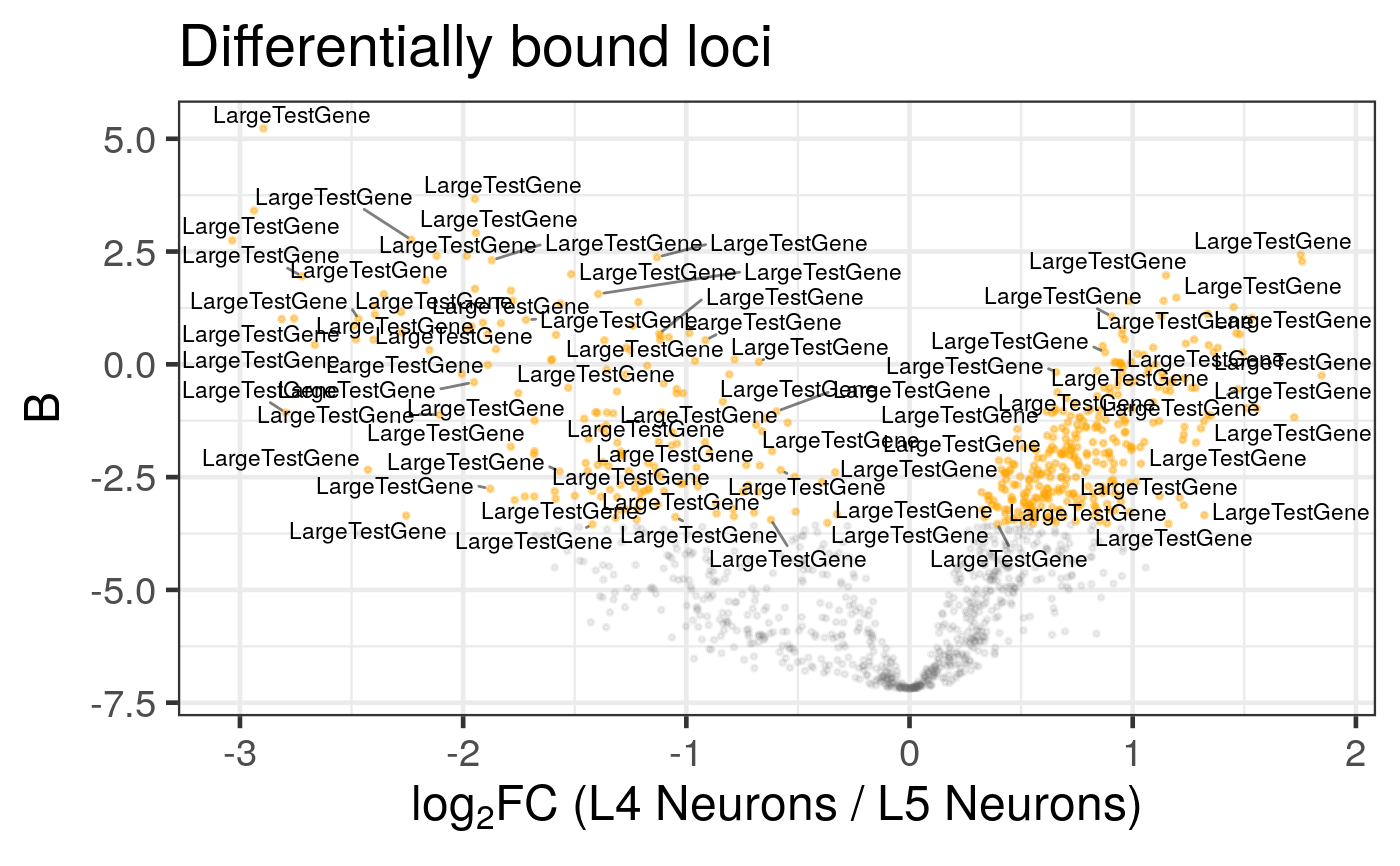
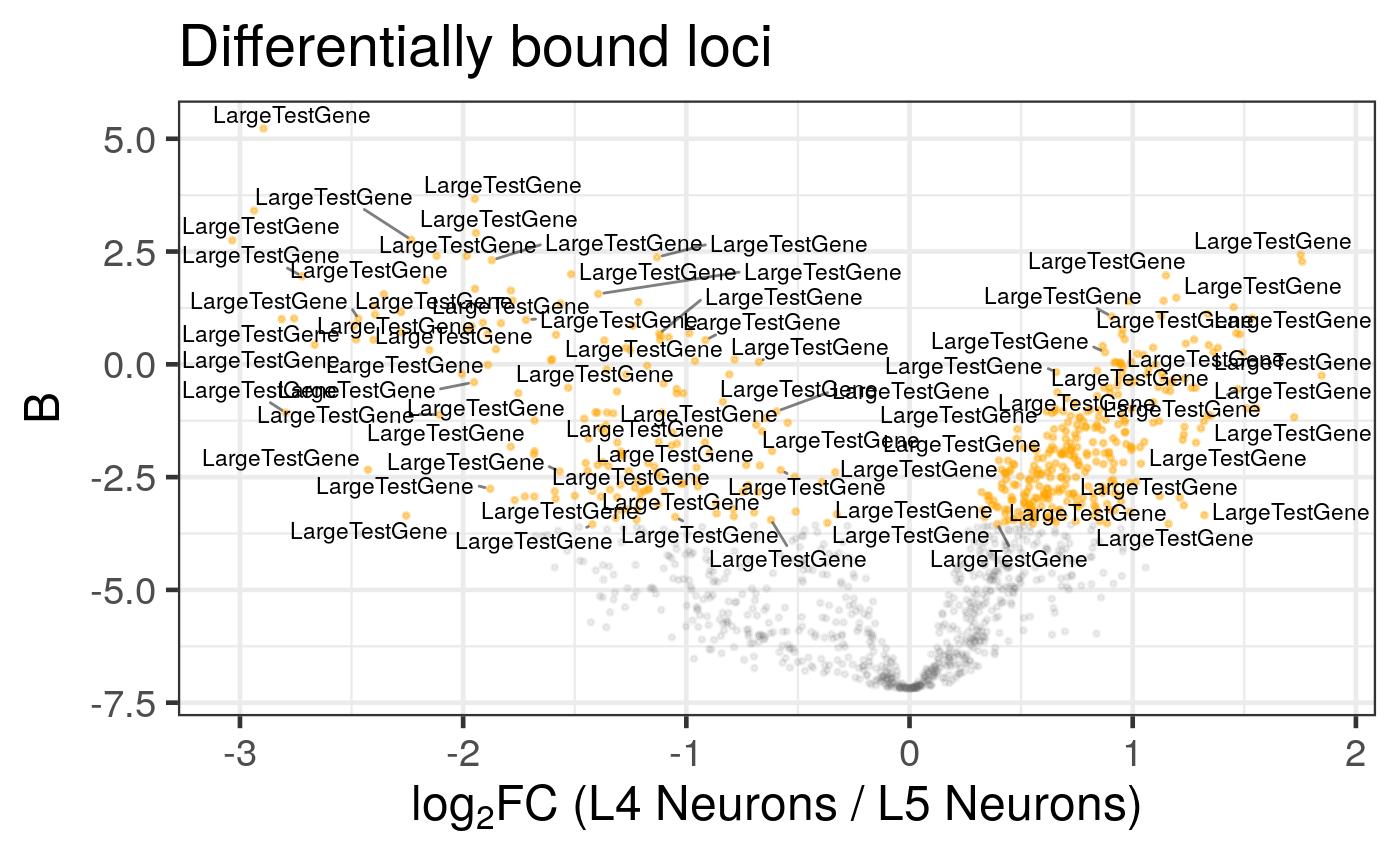
Built site for damidBind@1.1.1:

diff --git a/index.html b/index.html
@@ -57,8 +57,8 @@
   <main id="main" class="col-md-9"><div class="section level1">
 <div class="page-header"><h1 id="introduction">Introduction<a class="anchor" aria-label="anchor" href="#introduction"></a>
 </h1></div>
-<p>DamID is a highly-sensitive means to profile the genome-wide association of proteins with chromatin in living eukaryotic cells, without fixation or the use of antibodies. Cell-type specific techniques such as Targeted DamID to profile protein binding, and CATaDA to profile chromatin accessibility, have made the technique an extremely powerful tool to understand the binding of transcription factors, chromatin proteins, RNA polymerase and chromatin changes during development and disease.</p>
-<p>The <code>damidBind</code> package provides a straight-forward, statistically-robust formal analysis pipeline to analyse and explore differential DamID binding, gene transcription or chromatin accessibility between two conditions. The package imports processed data from DamID-seq experiments, in the form of binding bedgraphs and GFF peak calls. After optionally normalising data, combining peaks across replicates and determining per-replicate peak occupancy, the package links bound loci to nearby genes. It then uses either <code>limma</code> (for conventional log2 ratio DamID binding data) or <code>NOIseq</code> (for counts-based CATaDa chromatin accessibility data) to identify differentially-enriched regions between two conditions.</p>
+<p>DamID is a highly-sensitive means to profile the genome-wide association of proteins with chromatin in living eukaryotic cells, without fixation or the use of antibodies. Cell-type specific techniques such as Targeted DamID to profile protein binding, and CATaDa to profile chromatin accessibility, have made the technique an extremely powerful tool to understand the binding of transcription factors, chromatin proteins, RNA polymerase and chromatin changes during development and disease.</p>
+<p>The <code>damidBind</code> package provides a straight-forward, statistically-robust formal analysis pipeline to analyse and explore differential DamID binding, gene transcription or chromatin accessibility between two conditions. The package imports processed data from DamID-seq experiments, in the form of GenomicRanges objects, or via binding bedGraphs and BED/GFF peak calls. After optionally normalising data, combining peaks across replicates and determining per-replicate peak occupancy, the package links bound loci to nearby genes. It then uses either <code>limma</code> (for conventional log2 ratio DamID binding data) or <code>NOIseq</code> (for counts-based CATaDa chromatin accessibility data) to identify differentially-enriched regions between two conditions.</p>
 <p>The package provides a number of visualisation tools (volcano plots, gene ontology enrichment plots via <code>clusterProfiler</code> and proportional Venn diagrams via <code>BioVenn</code> for downstream data exploration and analysis. An powerful, interactive IGV genome browser interface (powered by <code>Shiny</code> and <code>igvShiny</code>) allows users to rapidly and intuitively assess significant differentially-bound regions in their genomic context.</p>
 <p>Although extensive customisation options are available if required, much of the data handling by <code>damidBind</code> is taken care of automatically, with sensible defaults assumed. To move from loading raw data to visualising differentially-enriched regions on a volcano plot or browsing enriched regions in an interactive IGV window is a simple three command procedure.</p>
 </div>
@@ -70,8 +70,7 @@
 <code class="sourceCode R"><span><span class="kw">if</span> <span class="op">(</span><span class="op">!</span><span class="kw"><a href="https://rdrr.io/r/base/library.html" class="external-link">require</a></span><span class="op">(</span><span class="st"><a href="https://bioconductor.github.io/BiocManager/" class="external-link">"BiocManager"</a></span>, quietly <span class="op">=</span> <span class="cn">TRUE</span><span class="op">)</span><span class="op">)</span></span>
 <span>    <span class="fu"><a href="https://rdrr.io/r/utils/install.packages.html" class="external-link">install.packages</a></span><span class="op">(</span><span class="st">"BiocManager"</span><span class="op">)</span></span>
 <span></span>
-<span><span class="co"># To install from Bioconductor (requires Bioconductor release 3.23):</span></span>
-<span><span class="fu">BiocManager</span><span class="fu">::</span><span class="fu"><a href="https://bioconductor.github.io/BiocManager/reference/install.html" class="external-link">install</a></span><span class="op">(</span>version<span class="op">=</span><span class="st">'devel'</span><span class="op">)</span></span>
+<span><span class="co"># To install the stable release from Bioconductor (requires Bioconductor release 3.23):</span></span>
 <span><span class="fu">BiocManager</span><span class="fu">::</span><span class="fu"><a href="https://bioconductor.github.io/BiocManager/reference/install.html" class="external-link">install</a></span><span class="op">(</span><span class="st">"damidBind"</span><span class="op">)</span></span>
 <span></span>
 <span><span class="co"># ... or to install the latest build from Github </span></span>
@@ -86,19 +85,19 @@
 <div class="section level1">
 <h1 id="quick-start-guide">Quick start guide<a class="anchor" aria-label="anchor" href="#quick-start-guide"></a>
 </h1>
-<p>Using <code>damidBind</code>, in eight easy steps:</p>
+<p>Using <code>damidBind</code>, in nine easy steps:</p>
 <div class="sourceCode" id="cb2"><pre class="downlit sourceCode r">
 <code class="sourceCode R"><span><span class="co"># Load up the data </span></span>
 <span><span class="co"># (use load_data_genes() for RNA Polymerase occupancy data)</span></span>
 <span><span class="va">input</span> <span class="op">&lt;-</span> <span class="fu"><a href="reference/load_data_peaks.html">load_data_peaks</a></span><span class="op">(</span></span>
 <span>    binding_profiles_path <span class="op">=</span> <span class="st">"path/to/binding_profile_bedgraphs"</span>,</span>
 <span>    peaks_path <span class="op">=</span> <span class="st">"path/to/peak_gffs_or_beds"</span></span>
-<span>    <span class="co"># add quantile_norm = TRUE if appropriate</span></span>
+<span>    <span class="co"># add a normalisation step via norm_method if appropriate</span></span>
 <span><span class="op">)</span> </span>
 <span></span>
 <span><span class="co"># Determine differential binding </span></span>
 <span><span class="co"># (use differential_accessibility() for CATaDa chromatin accessibility data)</span></span>
-<span><span class="va">input.diff</span> <span class="op">&lt;-</span> <span class="fu"><a href="reference/differential_binding.html">differential_binding</a></span><span class="op">(</span></span>
+<span><span class="va">input_diff</span> <span class="op">&lt;-</span> <span class="fu"><a href="reference/differential_binding.html">differential_binding</a></span><span class="op">(</span></span>
 <span>    <span class="va">input</span>,</span>
 <span>    cond <span class="op">=</span> <span class="fu"><a href="https://rdrr.io/r/base/c.html" class="external-link">c</a></span><span class="op">(</span></span>
 <span>        <span class="st">"Display name 1"</span> <span class="op">=</span> <span class="st">"Condition 1 identifying string in filenames"</span>,</span>
@@ -106,28 +105,31 @@
 <span>    <span class="op">)</span></span>
 <span><span class="op">)</span></span>
 <span></span>
-<span><span class="co"># The result 'input.diff' is a formal S4 object.</span></span>
+<span><span class="co"># The result 'input_diff' is a formal S4 object.</span></span>
 <span><span class="co"># You can see a summary by typing its name:</span></span>
-<span><span class="va">input.diff</span></span>
+<span><span class="va">input_diff</span></span>
 <span></span>
 <span><span class="co"># View the proportion of differentially bound loci</span></span>
-<span><span class="fu"><a href="reference/plot_venn.html">plot_venn</a></span><span class="op">(</span><span class="va">input.diff</span><span class="op">)</span></span>
+<span><span class="fu"><a href="reference/plot_venn.html">plot_venn</a></span><span class="op">(</span><span class="va">input_diff</span><span class="op">)</span></span>
 <span></span>
 <span><span class="co"># Plot the differential binding, labelling associated genes with outliers</span></span>
-<span><span class="fu"><a href="reference/plot_volcano.html">plot_volcano</a></span><span class="op">(</span><span class="va">input.diff</span><span class="op">)</span></span>
+<span><span class="fu"><a href="reference/plot_volcano.html">plot_volcano</a></span><span class="op">(</span><span class="va">input_diff</span><span class="op">)</span></span>
 <span></span>
 <span><span class="co"># Analyse GO enrichment in peaks associated with one condition</span></span>
 <span><span class="fu"><a href="reference/analyse_go_enrichment.html">analyse_go_enrichment</a></span><span class="op">(</span></span>
-<span>    <span class="va">input.diff</span>,</span>
+<span>    <span class="va">input_diff</span>,</span>
 <span>    direction <span class="op">=</span> <span class="st">"Condition 1 identifier set with differential_binding() above"</span></span>
 <span><span class="op">)</span></span>
 <span></span>
 <span><span class="co"># View the differentially bound loci in an Shiny/IGV browser web app, </span></span>
 <span><span class="co"># with an interactive, searchable, sortable table of bound regions</span></span>
-<span><span class="fu"><a href="reference/browse_igv_regions.html">browse_igv_regions</a></span><span class="op">(</span><span class="va">input.diff</span><span class="op">)</span></span>
+<span><span class="fu"><a href="reference/browse_igv_regions.html">browse_igv_regions</a></span><span class="op">(</span><span class="va">input_diff</span><span class="op">)</span></span>
 <span></span>
 <span><span class="co"># Apply additional functions on the differential binding results</span></span>
-<span><span class="fu">my_custom_function</span><span class="op">(</span><span class="fu"><a href="reference/analysisTable.html">analysisTable</a></span><span class="op">(</span><span class="va">input.diff</span><span class="op">)</span><span class="op">)</span></span></code></pre></div>
+<span><span class="fu">my_custom_function</span><span class="op">(</span><span class="fu"><a href="reference/analysisTable.html">analysisTable</a></span><span class="op">(</span><span class="va">input_diff</span><span class="op">)</span><span class="op">)</span></span>
+<span></span>
+<span><span class="co"># View all analysis metadata, including genome annotation version, input files and modication times:</span></span>
+<span><span class="fu">metadata</span><span class="op">(</span><span class="va">input_diff</span><span class="op">)</span></span></code></pre></div>
 </div>
 
   </main><aside class="col-md-3"><div class="links">

diff --git a/articles/damidBind_vignette.html b/articles/damidBind_vignette.html
@@ -127,7 +127,7 @@
 <span>    <span class="op">)</span></span>
 <span><span class="op">)</span></span>
 <span></span>
-<span><span class="co"># The result 'input.diff' is a formal S4 object.</span></span>
+<span><span class="co"># The result 'input_diff' is a formal S4 object.</span></span>
 <span><span class="co"># You can see a summary by typing its name:</span></span>
 <span><span class="va">input_diff</span></span>
 <span></span>